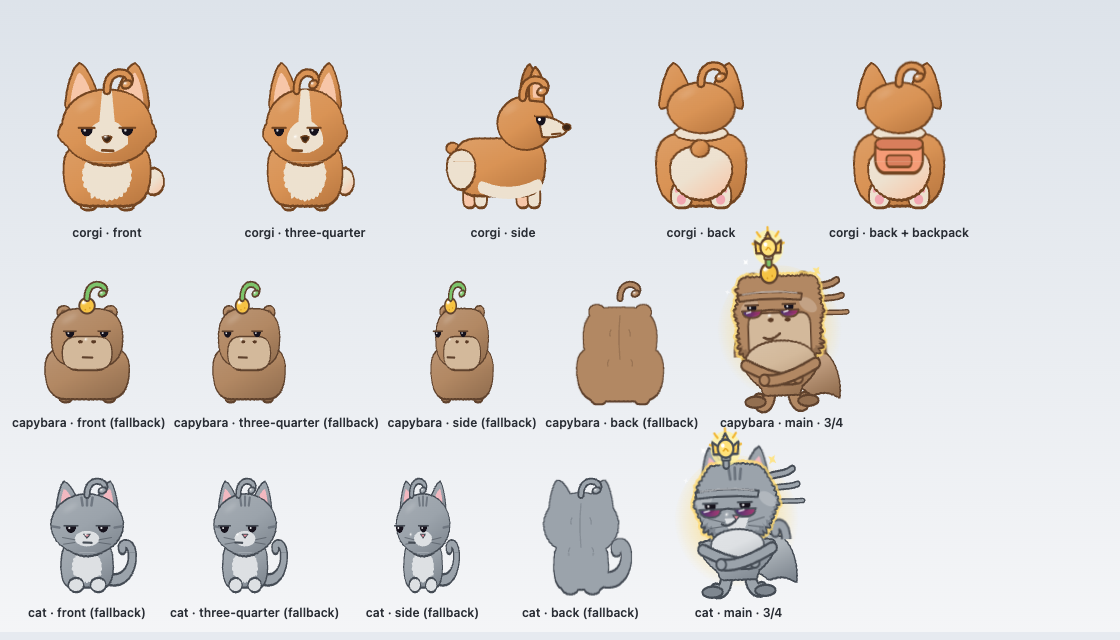
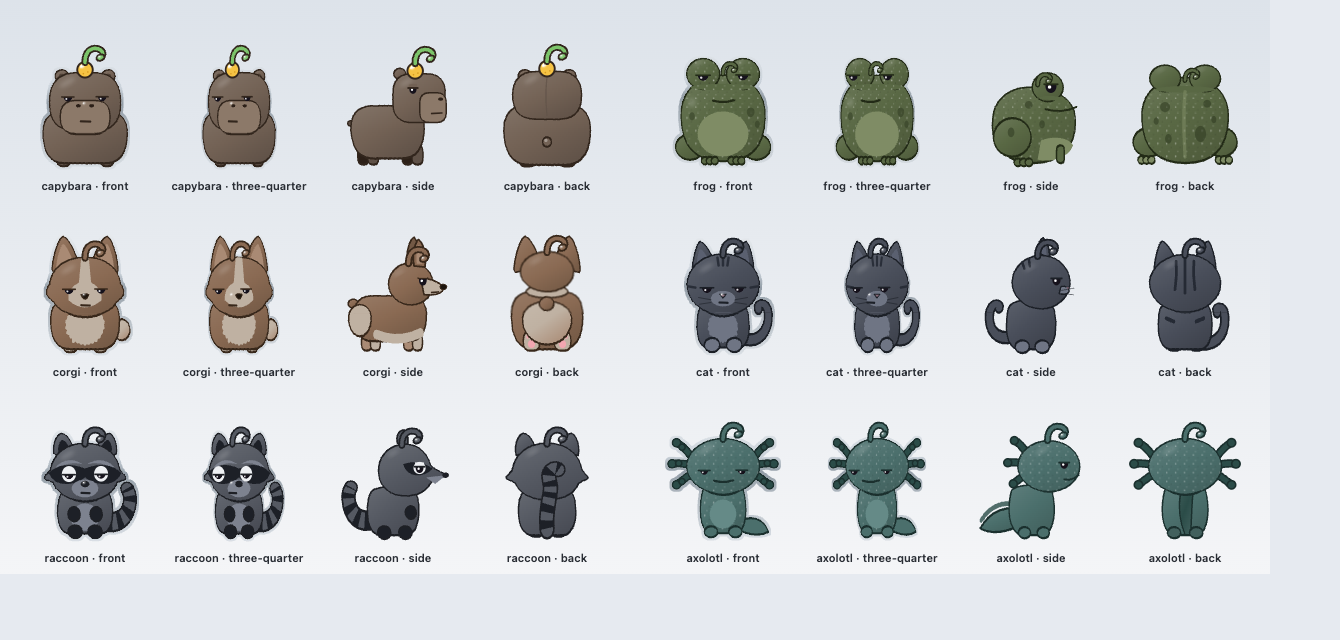
Pip2D: side and back art for capybara, frog, cat, raccoon, axolotl (P2D-16b)

diff --git a/frontend/src/pip2d/creatures/views.jsx b/frontend/src/pip2d/creatures/views.jsx
@@ -1,0 +1,339 @@
+import { Shape, Plush, Hair, InkStroke, rrect, ell } from '../shapes'
+import { ellipsePoints } from '../fuzz'
+
+// Dedicated side / back turnaround art (corgi's lives in corgi.jsx). Side views face right.
+// Each creature exports { back, side, backSprout, sideSprout, backNeck }.
+
+const EYE = '#16121C'
+
+// Deadpan eye in profile: dark oval, flat lid line, one highlight.
+function ProfileEye({ x, y, rx = 7, ry = 9.5, t }) {
+  return (
+    <g>
+      <ellipse cx={x} cy={y} rx={rx} ry={ry} fill={EYE} />
+      <rect x={x - rx - 1} y={y - ry - 1} width={2 * rx + 2} height={ry * 0.75 + 1} fill={t.body} />
+      <path d={`M${x - rx - 2},${y - ry * 0.25} L${x + rx + 2},${y - ry * 0.25}`} stroke={t.ink} strokeWidth="3.4" strokeLinecap="round" />
+      <circle cx={x - rx * 0.25} cy={y + ry * 0.15} r={rx * 0.3} fill="#fff" />
+    </g>
+  )
+}
+
+// Stubby legs seen from behind, with soles toward the viewer.
+function BackFeet({ xs, y = 186, t, pad, id, w = 30, h = 22 }) {
+  return xs.map((x) => (
+    <g key={x}>
+      <Shape d={rrect(x - w / 2, y, w, h, 10)} fill={t.shade} ink={t.ink} uid={`${id}bf${x}`} shadow={false} />
+      <ellipse cx={x} cy={y + h * 0.62} rx={w * 0.22} ry={h * 0.2} fill={pad} opacity="0.85" />
+    </g>
+  ))
+}
+
+/* ------------------------------ capybara ------------------------------ */
+// Back: round barrel body, tiny tail nub, little ears, the yuzu-sprout seen from behind.
+function CapyBack({ t, id }) {
+  return (
+    <g>
+      {[60, 140].map((x, i) => (
+        <g key={x}>
+          <Shape pts={ellipsePoints(x, 64, 12.5, 11.5)} fur={{ key: `capyb-ear${i}`, seed: 201 + i, amp: 1.6, spacing: 6 }} fill={t.body} shade={t.shade} ink={t.ink} uid={`${id}be${i}`} />
+        </g>
+      ))}
+      <BackFeet xs={[64, 136]} t={t} pad={t.dark} id={id} />
+      <Shape d={rrect(22, 116, 156, 90, 46)} fur={{ key: 'capyb-body', seed: 203, amp: 2.6, spacing: 8 }} fill={t.body} shade={t.shade} ink={t.ink} uid={`${id}bb`} />
+      <Shape d={rrect(38, 56, 124, 86, 42)} fur={{ key: 'capyb-head', seed: 204, amp: 2.4, spacing: 8 }} fill={t.body} shade={t.shade} ink={t.ink} uid={`${id}bh`} />
+      {/* tiny tail nub */}
+      <ellipse cx="100" cy="178" rx="8" ry="6" fill={t.body} stroke={t.ink} strokeWidth="2.6" />
+      <ellipse cx="98" cy="176" rx="3" ry="2" fill="#fff" opacity="0.35" />
+      {[
+        [70, 160, -20],
+        [130, 160, 20],
+        [100, 136, 0],
+        [80, 92, -10],
+        [120, 92, 10],
+      ].map(([x, y, r], i) => (
+        <Hair key={i} x={x} y={y} rot={r} color={t.shade} />
+      ))}
+      <path d="M100,64 Q96,100 100,136" fill="none" stroke={t.shade} strokeWidth="2.4" strokeLinecap="round" opacity="0.7" />
+      <Plush id={id} cx={72} cy={70} rx={18} ry={8} />
+    </g>
+  )
+}
+
+// Side: barrel body, big blunt rectangular snout, small ear, tiny tail nub.
+function CapySide({ t, id }) {
+  return (
+    <g>
+      {[46, 64, 126, 144].map((x, i) => (
+        <Shape key={x} d={rrect(x - 10, 182, 20, 24, 9)} fill={i % 2 ? t.shade : t.dark} ink={t.ink} uid={`${id}sl${x}`} shadow={false} />
+      ))}
+      <ellipse cx="24" cy="150" rx="6" ry="5" fill={t.shade} stroke={t.ink} strokeWidth="2.6" />
+      <Shape d={rrect(24, 118, 132, 80, 40)} fur={{ key: 'capys-body', seed: 211, amp: 2.6, spacing: 8 }} fill={t.body} shade={t.shade} ink={t.ink} uid={`${id}sb`} />
+      <Shape pts={ellipsePoints(112, 60, 11, 10)} fur={{ key: 'capys-ear2', seed: 212, amp: 1.5, spacing: 6 }} fill={t.body} shade={t.shade} ink={t.ink} uid={`${id}se`} />
+      <Shape d={rrect(100, 60, 94, 88, 34)} fur={{ key: 'capys-head', seed: 213, amp: 2.2, spacing: 8 }} fill={t.body} shade={t.shade} ink={t.ink} uid={`${id}sh`} />
+      <Shape d={rrect(148, 94, 48, 54, 18)} fill={t.belly} ink={t.ink} uid={`${id}sm`} shadow={false} w={2.8} />
+      <ellipse cx="186" cy="106" rx="4.5" ry="3" fill={t.dark} />
+      <path d="M170,132 L188,131" stroke={t.ink} strokeWidth="3" strokeLinecap="round" />
+      <ProfileEye x={136} y={88} t={t} rx={6.5} ry={8.5} />
+      <Hair x={70} y={150} rot={-10} color={t.shade} />
+      <Hair x={100} y={140} rot={5} color={t.shade} />
+      <Plush id={id} cx={124} cy={76} rx={16} ry={7} />
+    </g>
+  )
+}
+
+export const capybaraViews = {
+  back: CapyBack,
+  side: CapySide,
+  backSprout: { x: 100, y: 38, yuzu: true },
+  sideSprout: { x: 140, y: 42, yuzu: true },
+  backNeck: { y: 140, x0: 40, x1: 160 },
+}
+
+/* ------------------------------ frog ------------------------------ */
+// Back: wide spotted back, eye domes from behind, folded haunches, sprout seen from behind.
+function FrogBack({ t, id }) {
+  return (
+    <g>
+      <Shape d={ell(34, 178, 28, 18)} fill={t.body} shade={t.shade} ink={t.ink} uid={`${id}bk1`} />
+      <Shape d={ell(166, 178, 28, 18)} fill={t.body} shade={t.shade} ink={t.ink} uid={`${id}bk2`} />
+      {/* feet soles toward the viewer */}
+      {[30, 170].map((x) => (
+        <g key={x}>
+          {[-9, 0, 9].map((dx) => (
+            <Shape key={dx} d={ell(x + dx, 200, 6.5, 5)} fill={t.belly} ink={t.ink} uid={`${id}bt${x}${dx}`} shadow={false} w={2.6} />
+          ))}
+        </g>
+      ))}
+      <Shape d="M100,78 C152,78 180,110 178,150 C176,186 150,204 100,204 C50,204 24,186 22,150 C20,110 48,78 100,78 Z" fill={t.body} shade={t.shade} ink={t.ink} uid={`${id}bb`} />
+      <path d="M100,78 C152,78 180,110 178,150 C176,186 150,204 100,204 C50,204 24,186 22,150 C20,110 48,78 100,78 Z" fill={`url(#${id}speck)`} />
+      <Shape d={ell(64, 80, 28, 24)} fill={t.body} shade={t.shade} ink={t.ink} uid={`${id}bd1`} />
+      <Shape d={ell(136, 80, 28, 24)} fill={t.body} shade={t.shade} ink={t.ink} uid={`${id}bd2`} />
+      <path d="M44,100 C64,92 136,92 156,100 C146,108 54,108 44,100 Z" fill={t.body} />
+      {/* spots + a light spine stripe */}
+      <path d="M100,104 Q96,150 100,196" fill="none" stroke={t.belly} strokeWidth="6" strokeLinecap="round" opacity="0.55" />
+      <g fill={t.dark} opacity="0.55">
+        <circle cx="64" cy="132" r="9" />
+        <circle cx="140" cy="126" r="7" />
+        <circle cx="128" cy="168" r="10" />
+        <circle cx="70" cy="174" r="6" />
+        <circle cx="152" cy="150" r="4.5" />
+        <circle cx="48" cy="152" r="4.5" />
+      </g>
+      <Plush id={id} cx={56} cy={64} rx={11} ry={5} />
+      <Plush id={id} cx={128} cy={64} rx={11} ry={5} />
+    </g>
+  )
+}
+
+// Side: egg body, one eye dome, long mouth line, big folded hind leg.
+function FrogSide({ t, id }) {
+  const BODY = 'M92,96 C140,92 178,118 180,150 C182,184 152,204 104,204 C58,204 30,186 30,158 C30,124 54,98 92,96 Z'
+  return (
+    <g>
+      <Shape d={BODY} fill={t.body} shade={t.shade} ink={t.ink} uid={`${id}sb`} />
+      <path d={BODY} fill={`url(#${id}speck)`} />
+      <path d="M118,176 C140,170 168,172 176,182 C168,198 138,204 112,200 Z" fill={t.belly} />
+      <Shape d={ell(130, 96, 28, 26)} fill={t.body} shade={t.shade} ink={t.ink} uid={`${id}sd`} />
+      <path d="M110,116 C130,108 160,112 170,124" fill={t.body} />
+      <ProfileEye x={136} y={94} t={t} rx={10} ry={12.5} />
+      <path d="M126,136 Q156,144 182,132" fill="none" stroke={t.ink} strokeWidth="3.6" strokeLinecap="round" />
+      {/* folded hind leg */}
+      <Shape d={ell(66, 172, 34, 24)} fill={t.body} shade={t.shade} ink={t.ink} uid={`${id}sh`} />
+      {[-10, 0, 10].map((dx) => (
+        <Shape key={dx} d={ell(86 + dx, 203, 7, 5)} fill={t.body} ink={t.ink} uid={`${id}st${dx}`} shadow={false} w={2.6} />
+      ))}
+      <Shape d={rrect(146, 182, 14, 22, 6)} fill={t.body} ink={t.ink} uid={`${id}sf`} shadow={false} />
+      <g fill={t.dark} opacity="0.55">
+        <circle cx="96" cy="128" r="7" />
+        <circle cx="64" cy="166" r="6" />
+        <circle cx="120" cy="156" r="5" />
+      </g>
+      <Plush id={id} cx={122} cy={78} rx={11} ry={5} />
+    </g>
+  )
+}
+
+export const frogViews = {
+  back: FrogBack,
+  side: FrogSide,
+  backSprout: { x: 100, y: 84, scale: 0.72 },
+  sideSprout: { x: 112, y: 92, scale: 0.72 },
+  backNeck: { y: 130, x0: 30, x1: 170 },
+}
+
+/* ------------------------------ cat ------------------------------ */
+const CAT_EAR_L = 'M58,30 C52,34 44,64 44,86 C56,82 74,76 86,70 C80,54 66,30 58,30 Z'
+const CAT_EAR_R = 'M142,30 C148,34 156,64 156,86 C144,82 126,76 114,70 C120,54 134,30 142,30 Z'
+
+function CatBack({ t, id }) {
+  return (
+    <g>
+      <InkStroke d="M128,198 C162,200 178,180 170,156 C166,146 154,148 158,158" color={t.body} ink={t.ink} w={11} fluffy />
+      <BackFeet xs={[80, 120]} y={188} w={26} h={18} t={{ ...t, shade: t.belly }} pad={t.inner} id={id} />
+      <Shape d="M56,150 C56,138 144,138 144,150 C152,172 150,198 132,204 L68,204 C50,198 48,172 56,150 Z" fur={{ key: 'catb-body', seed: 221, amp: 2.4, spacing: 8 }} fill={t.body} shade={t.shade} ink={t.ink} uid={`${id}bb`} />
+      <Shape d={CAT_EAR_L} fill={t.body} shade={t.shade} ink={t.ink} uid={`${id}bel`} />
+      <Shape d={CAT_EAR_R} fill={t.body} shade={t.shade} ink={t.ink} uid={`${id}ber`} />
+      <Shape pts={ellipsePoints(100, 106, 64, 52)} fur={{ key: 'catb-head', seed: 222, amp: 2.4, spacing: 8 }} fill={t.body} shade={t.shade} ink={t.ink} uid={`${id}bh`} />
+      <g stroke={t.dark} strokeWidth="5" strokeLinecap="round">
+        <path d="M84,66 Q86,90 82,118" fill="none" />
+        <path d="M100,62 L100,124" />
+        <path d="M116,66 Q114,90 118,118" fill="none" />
+        <path d="M66,166 L80,170 M134,166 L120,170" />
+      </g>
+      <Plush id={id} cx={74} cy={72} rx={16} ry={7} />
+    </g>
+  )
+}
+
+function CatSide({ t, id }) {
+  return (
+    <g>
+      <InkStroke d="M58,190 C26,192 18,166 30,148 C36,140 46,144 42,152" color={t.body} ink={t.ink} w={11} fluffy />
+      <Shape d="M60,150 C60,134 132,128 140,150 C148,172 146,198 128,204 L72,204 C54,198 52,172 60,150 Z" fur={{ key: 'cats-body', seed: 231, amp: 2.4, spacing: 8 }} fill={t.body} shade={t.shade} ink={t.ink} uid={`${id}sb`} />
+      {[84, 120].map((x) => (
+        <Shape key={x} d={ell(x, 201, 13, 8)} fill={t.belly} ink={t.ink} uid={`${id}ss${x}`} shadow={false} />
+      ))}
+      <path d="M112,52 C110,40 116,26 122,24 C130,32 134,46 134,60 Z" fill={t.body} stroke={t.ink} strokeWidth="3" strokeLinejoin="round" />
+      <path d="M118,52 C117,44 120,36 123,34 C127,40 128,48 128,56 Z" fill={t.inner} />
+      <Shape pts={ellipsePoints(118, 104, 52, 48)} fur={{ key: 'cats-head', seed: 232, amp: 2.4, spacing: 8 }} fill={t.body} shade={t.shade} ink={t.ink} uid={`${id}sh`} />
+      <path d="M154,112 C162,110 169,114 169,121 C165,127 157,128 151,125 Z" fill={t.belly} stroke={t.ink} strokeWidth="2.4" strokeLinejoin="round" />
+      <path d="M164,113 L169,114 L166,118 Z" fill={t.nose} />
+      <path d="M150,120 L178,115 M150,124 L177,127" stroke={t.ink} strokeWidth="1.6" strokeLinecap="round" opacity="0.6" />
+      <ProfileEye x={146} y={100} t={t} rx={7.5} ry={10} />
+      <g stroke={t.dark} strokeWidth="4.5" strokeLinecap="round">
+        <path d="M96,62 L98,76 M84,68 L88,80" />
+      </g>
+      <Plush id={id} cx={98} cy={78} rx={14} ry={6} />
+    </g>
+  )
+}
+
+export const catViews = {
+  back: CatBack,
+  side: CatSide,
+  backSprout: { x: 100, y: 56 },
+  sideSprout: { x: 112, y: 58 },
+  backNeck: { y: 156, x0: 54, x1: 146 },
+}
+
+/* ------------------------------ raccoon ------------------------------ */
+const RAC_EAR_L = 'M56,40 C46,44 40,64 44,80 C56,78 68,72 78,64 C74,52 66,40 56,40 Z'
+const RAC_EAR_R = 'M144,40 C154,44 160,64 156,80 C144,78 132,72 122,64 C126,52 134,40 144,40 Z'
+
+function RacBack({ t, id }) {
+  const TAIL = 'M100,196 C96,170 112,150 104,124 C100,110 112,100 120,106'
+  return (
+    <g>
+      <BackFeet xs={[80, 120]} y={188} w={26} h={18} t={{ ...t, shade: t.dark }} pad={t.body} id={id} />
+      <Shape d="M54,150 C54,138 146,138 146,150 C156,172 154,198 132,204 L68,204 C46,198 44,172 54,150 Z" fur={{ key: 'racb-body', seed: 241, amp: 2.4, spacing: 8 }} fill={t.body} shade={t.shade} ink={t.ink} uid={`${id}bb`} />
+      <Shape d={RAC_EAR_L} fill={t.body} shade={t.shade} ink={t.ink} uid={`${id}bel`} />
+      <Shape d={RAC_EAR_R} fill={t.body} shade={t.shade} ink={t.ink} uid={`${id}ber`} />
+      <Shape d="M100,58 C136,58 160,80 162,106 L176,122 L158,128 C150,150 128,160 100,160 C72,160 50,150 42,128 L24,122 L38,106 C40,80 64,58 100,58 Z" fur={{ key: 'racb-head', seed: 242, amp: 2.4, spacing: 8 }} fill={t.body} shade={t.shade} ink={t.ink} uid={`${id}bh`} />
+      <Hair x={86} y={84} rot={-10} color={t.shade} />
+      <Hair x={114} y={84} rot={10} color={t.shade} />
+      {/* the big ringed tail, curling up the back */}
+      <InkStroke d={TAIL} color={t.body} ink={t.ink} w={22} fluffy />
+      <path d={TAIL} fill="none" stroke={t.dark} strokeWidth="24" strokeDasharray="10 10" />
+      <Plush id={id} cx={74} cy={74} rx={16} ry={7} />
+    </g>
+  )
+}
+
+function RacSide({ t, id }) {
+  const TAIL = 'M58,186 C24,190 12,160 24,138'
+  return (
+    <g>
+      <InkStroke d={TAIL} color={t.body} ink={t.ink} w={20} fluffy />
+      <path d={TAIL} fill="none" stroke={t.dark} strokeWidth="22" strokeDasharray="9 9" />
+      <Shape d="M58,150 C58,134 132,128 142,150 C150,172 148,198 128,204 L72,204 C52,198 50,172 58,150 Z" fur={{ key: 'racs-body', seed: 251, amp: 2.4, spacing: 8 }} fill={t.body} shade={t.shade} ink={t.ink} uid={`${id}sb`} />
+      {[84, 122].map((x) => (
+        <Shape key={x} d={ell(x, 201, 12, 8)} fill={t.dark} ink={t.ink} uid={`${id}sf${x}`} shadow={false} />
+      ))}
+      <path d="M108,58 C104,44 112,34 120,34 C128,42 128,54 126,64 Z" fill={t.body} stroke={t.ink} strokeWidth="3" strokeLinejoin="round" />
+      <Shape d="M74,104 C76,74 100,58 126,60 C152,62 166,86 168,100 L196,116 L168,128 C160,148 136,156 110,152 C86,148 72,128 74,104 Z" fur={{ key: 'racs-head', seed: 252, amp: 2.2, spacing: 8 }} fill={t.body} shade={t.shade} ink={t.ink} uid={`${id}sh`} />
+      {/* bandit mask stripe through the eye */}
+      <path d="M118,96 Q146,86 172,104 Q160,118 140,116 Q124,114 118,96 Z" fill={t.mask} />
+      <path d="M160,120 L196,116 L176,132 Z" fill={t.belly} />
+      <ellipse cx="195" cy="116" rx="5" ry="4" fill={t.dark} stroke={t.ink} strokeWidth="2" />
+      <circle cx="148" cy="103" r="11" fill="#EEF0F3" />
+      <ProfileEye x={148} y={103} t={{ ...t, body: '#EEF0F3' }} rx={7} ry={9} />
+      <Shape d={ell(132, 176, 10, 8)} fill={t.dark} ink={t.ink} uid={`${id}sp`} shadow={false} />
+      <Plush id={id} cx={100} cy={76} rx={14} ry={6} />
+    </g>
+  )
+}
+
+export const raccoonViews = {
+  back: RacBack,
+  side: RacSide,
+  backSprout: { x: 100, y: 60 },
+  sideSprout: { x: 116, y: 62 },
+  backNeck: { y: 158, x0: 52, x1: 148 },
+}
+
+/* ------------------------------ axolotl ------------------------------ */
+const FRONDS = [
+  ['M44,88 C34,76 26,66 16,62', 'M44,102 C30,100 20,98 8,100', 'M46,116 C34,124 26,130 16,138'],
+  ['M156,88 C166,76 174,66 184,62', 'M156,102 C170,100 180,98 192,100', 'M154,116 C166,124 174,130 184,138'],
+]
+
+function AxoBack({ t, id }) {
+  return (
+    <g>
+      <Shape d="M64,146 C64,136 136,136 136,146 C146,170 142,198 124,204 L76,204 C58,198 54,170 64,146 Z" fill={t.body} shade={t.shade} ink={t.ink} uid={`${id}bb`} />
+      {/* tail fin standing up the middle of the back */}
+      <Shape d="M100,204 C88,184 86,160 96,140 C104,126 116,124 118,134 C112,152 112,180 110,204 Z" fill={t.gill} shade={t.shade} ink={t.ink} uid={`${id}bt`} />
+      {[80, 120].map((x) => (
+        <Shape key={x} d={ell(x, 201, 12, 7)} fill={t.shade} ink={t.ink} uid={`${id}bf${x}`} shadow={false} />
+      ))}
+      {FRONDS.flat().map((d, i) => (
+        <InkStroke key={i} d={d} color={t.gill} ink={t.ink} w={9} />
+      ))}
+      {[
+        [16, 62], [8, 100], [16, 138], [184, 62], [192, 100], [184, 138],
+      ].map(([x, y], i) => (
+        <circle key={`f${i}`} cx={x} cy={y} r="7.5" fill={t.gill} stroke={t.ink} strokeWidth="3" />
+      ))}
+      <Shape d={ell(100, 104, 66, 50)} fill={t.body} shade={t.shade} ink={t.ink} uid={`${id}bh`} />
+      <path d={ell(100, 104, 66, 50)} fill={`url(#${id}speck)`} />
+      <Plush id={id} cx={72} cy={76} rx={18} ry={8} />
+    </g>
+  )
+}
+
+function AxoSide({ t, id }) {
+  return (
+    <g>
+      {/* long tail with a fin, trailing left */}
+      <Shape d="M70,170 C40,170 20,180 8,196 C30,204 56,200 80,192 Z" fill={t.body} shade={t.shade} ink={t.ink} uid={`${id}st`} />
+      <path d="M70,166 C46,162 24,170 10,186" fill="none" stroke={t.gill} strokeWidth="6" strokeLinecap="round" opacity="0.8" />
+      <Shape d="M64,150 C64,136 132,132 138,150 C146,172 142,198 124,204 L80,204 C60,198 56,172 64,150 Z" fill={t.body} shade={t.shade} ink={t.ink} uid={`${id}sb`} />
+      {[88, 122].map((x) => (
+        <Shape key={x} d={ell(x, 201, 11, 7)} fill={t.body} ink={t.ink} uid={`${id}sf${x}`} shadow={false} />
+      ))}
+      {['M96,86 C86,72 80,62 70,58', 'M92,100 C80,98 70,96 58,98', 'M96,114 C86,122 78,128 68,136'].map((d, i) => (
+        <g key={i}>
+          <InkStroke d={d} color={t.gill} ink={t.ink} w={9} />
+        </g>
+      ))}
+      {[
+        [70, 58], [58, 98], [68, 136],
+      ].map(([x, y], i) => (
+        <circle key={`g${i}`} cx={x} cy={y} r="7" fill={t.gill} stroke={t.ink} strokeWidth="3" />
+      ))}
+      <Shape d={ell(132, 104, 56, 46)} fill={t.body} shade={t.shade} ink={t.ink} uid={`${id}sh`} />
+      <path d={ell(132, 104, 56, 46)} fill={`url(#${id}speck)`} />
+      <ProfileEye x={160} y={100} t={t} rx={7} ry={9} />
+      <path d="M160,128 Q174,132 186,120" fill="none" stroke={t.ink} strokeWidth="3.4" strokeLinecap="round" />
+      <Plush id={id} cx={120} cy={76} rx={16} ry={7} />
+    </g>
+  )
+}
+
+export const axolotlViews = {
+  back: AxoBack,
+  side: AxoSide,
+  backSprout: { x: 100, y: 56 },
+  sideSprout: { x: 130, y: 58 },
+  backNeck: { y: 148, x0: 60, x1: 140 },
+}

diff --git a/frontend/src/pip2d/creatures/index.js b/frontend/src/pip2d/creatures/index.js
@@ -5,7 +5,15 @@ import raccoon from './raccoon'
 import frog from './frog'
 import axolotl from './axolotl'
 import blob from './blob'
+import { capybaraViews, frogViews, catViews, raccoonViews, axolotlViews } from './views'
 
 // Roster order: capybara is the default Pip.
 export const CREATURES_2D = ['capybara', 'corgi', 'cat', 'raccoon', 'frog', 'axolotl']
+// dedicated turnaround art (side + back) for the rest of the roster
+capybara.views = capybaraViews
+frog.views = frogViews
+cat.views = catViews
+raccoon.views = raccoonViews
+axolotl.views = axolotlViews
+
 export const CREATURE_DEFS = { capybara, corgi, cat, raccoon, frog, axolotl, blob }
